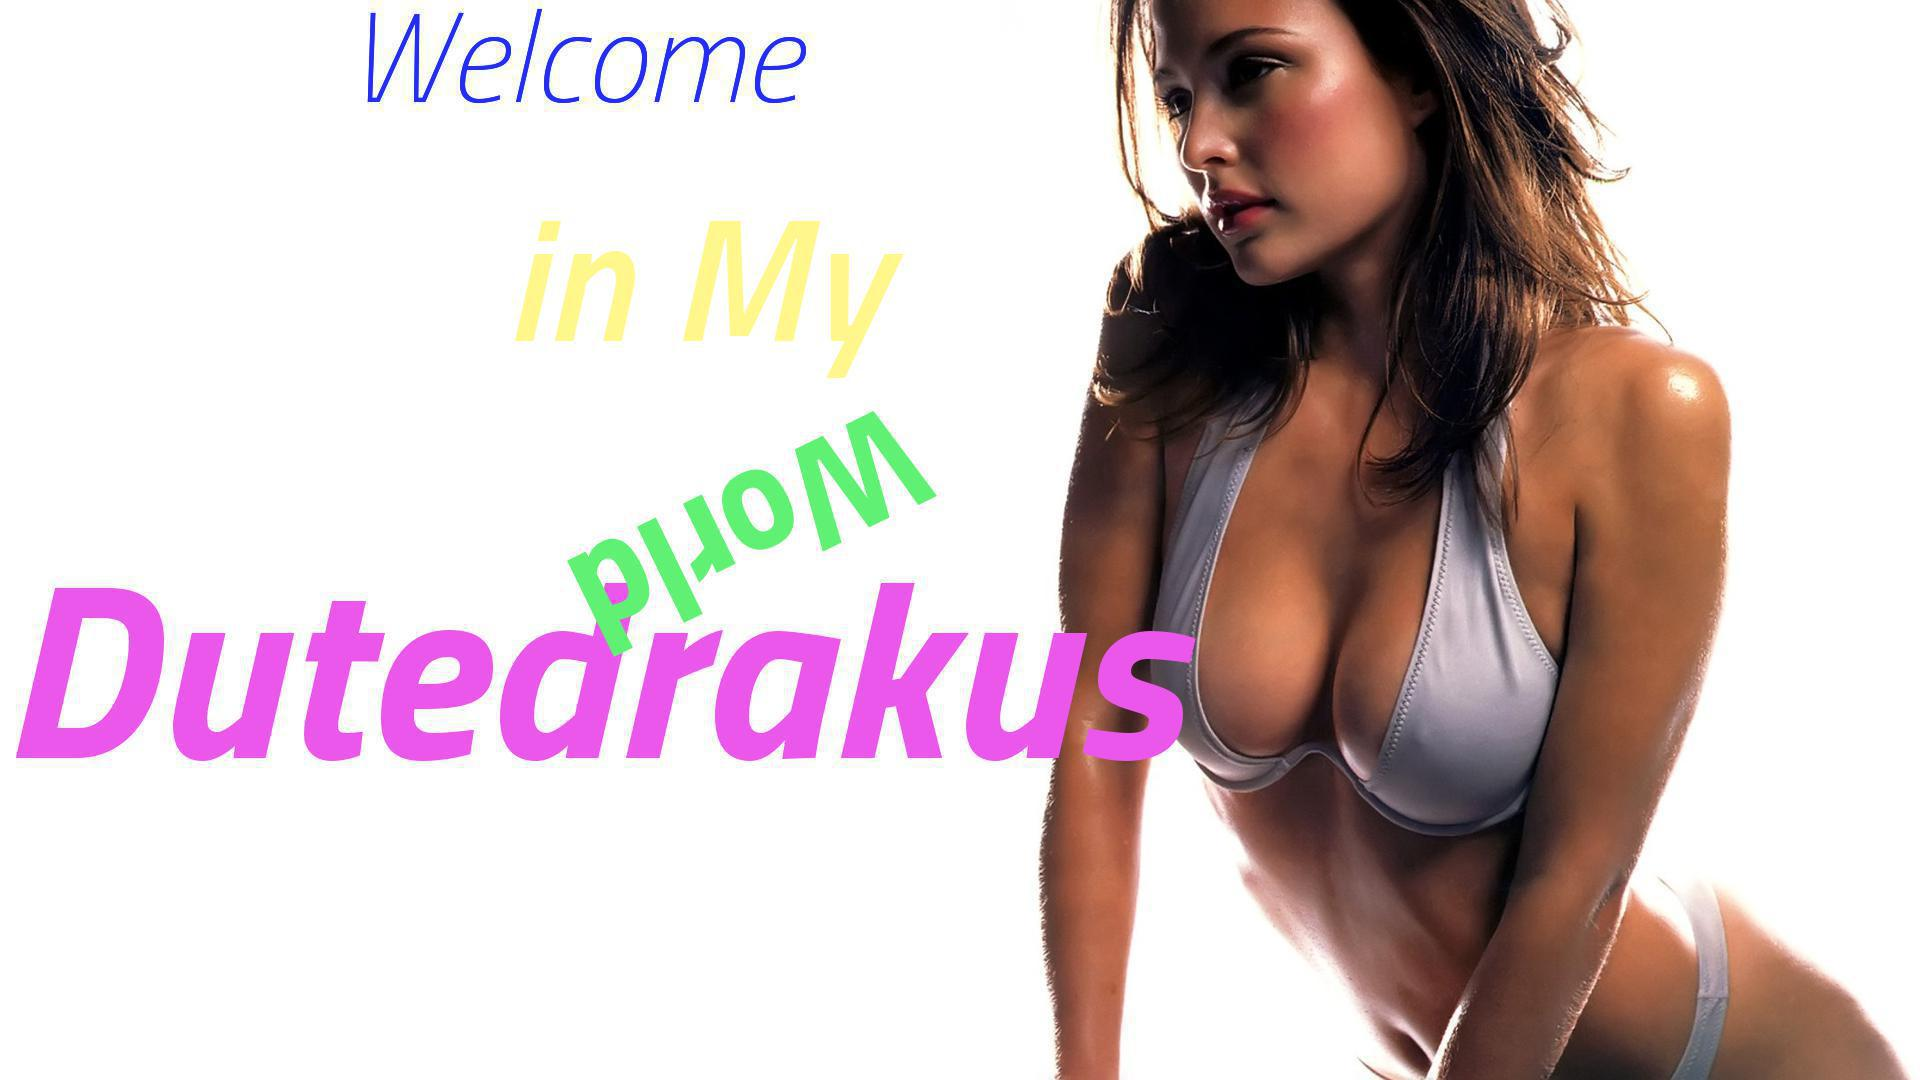
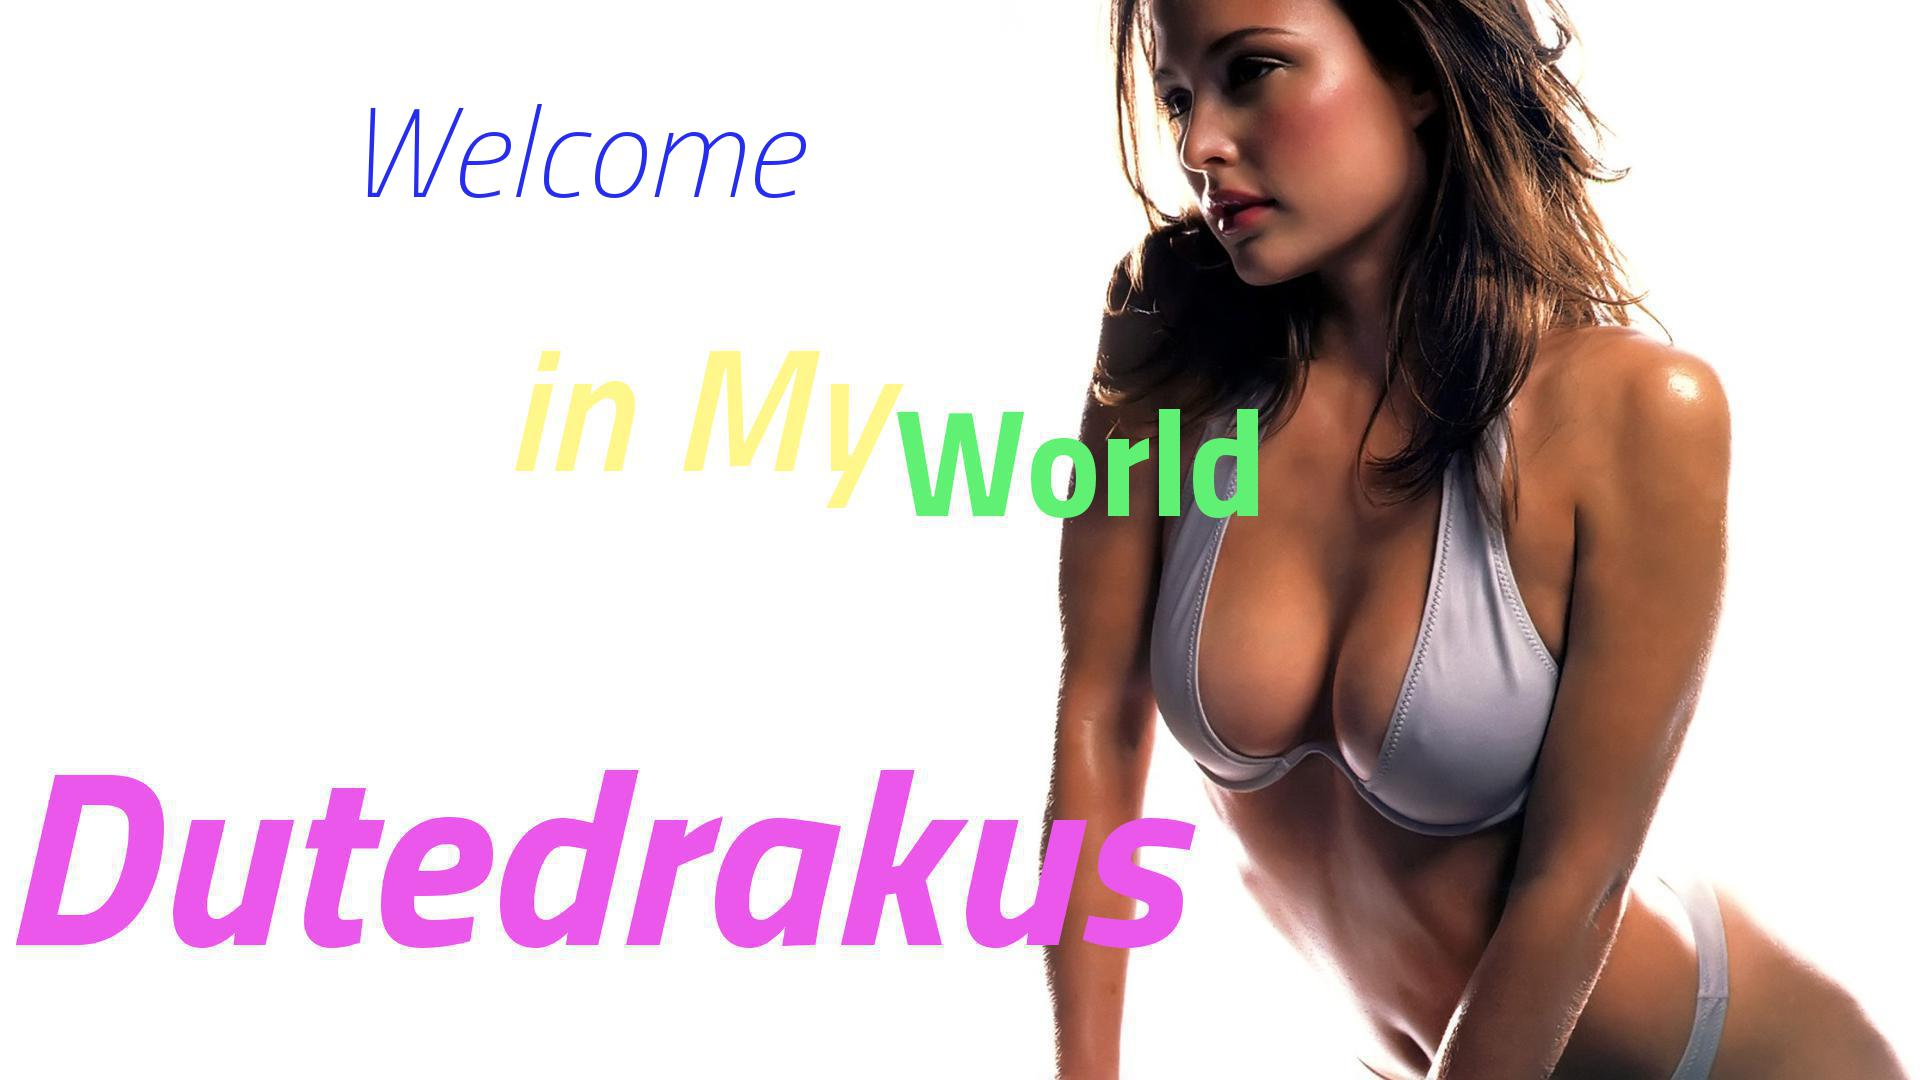
some fix

Changed region(s): [[0.0, 0.0, 0.6562, 0.8861]]

diff --git a/interface/php/show.php b/interface/php/show.php
@@ -15,63 +15,64 @@ $data = $_POST['data'];
 $count = count($data['arry']);
 //---------------------------------//
 $picture = '../data/picture/'.$_COOKIE['PHPSESSID'].'.jpg';
+
 list($width, $height, $type, $attr) = getimagesize($picture); // pobieram wymiary x i y obrazy , typ i atrybuty
-if (file_exists('../data/picture/'.$_COOKIE['PHPSESSID'].'-preview.jpg')) {
-    //echo ':)';
-    $picture = '../data/picture/'.$_COOKIE['PHPSESSID'].'-preview.jpg';
-}
+
 // foreach start
 for ($i = 0; $i < $count; $i++) {
-$color = $data['arry'][$i]['color'];// here color set
-$color = str_replace(array('rgb(', ')', ' '), '', $color);
-$rgb = explode(',', $color);
-//var_dump($rgb);
-$r = $rgb[0];
-$g = $rgb[1];
-$b = $rgb[2];
+    if (file_exists('../data/picture/'.$_COOKIE['PHPSESSID'].'-preview.jpg')) {
+        $picture = '../data/picture/'.$_COOKIE['PHPSESSID'].'-preview.jpg';
+    }
+    $color = $data['arry'][$i]['color'];// here color set
+    $color = str_replace(array('rgb(', ')', ' '), '', $color);
+    $rgb = explode(',', $color);
+    //var_dump($rgb);
+    $r = $rgb[0];
+    $g = $rgb[1];
+    $b = $rgb[2];
 
-$opacity = 1;// here opacity set
-$j = __getProcentFromNumber($opacity, 1);
-//var_dump($j);
-$m = __getNumberFromProcent($j, 127);
-//var_dump($m);
-$alpha = 127-$m;// 0 to 127
-//var_dump($alpha);
+    $opacity = 1;// here opacity set
+    $j = __getProcentFromNumber($opacity, 1);
+    //var_dump($j);
+    $m = __getNumberFromProcent($j, 127);
+    //var_dump($m);
+    $alpha = 127-$m;// 0 to 127
+    //var_dump($alpha);
 
-$ffname = $data['arry'][$i]['family'];// here font family set
-$font = '../data/fonts/'.$ffname.'.otf';
+    $ffname = $data['arry'][$i]['family'];// here font family set
+    $font = '../data/fonts/'.$ffname.'.otf';
 
-$size = $data['arry'][$i]['size'];// here font size set
-$int = intval($size);
-$workH = $data['arry'][$i]['workH'];// here workH set
-//var_dump($int);
-$h = __getProcentFromNumber($int, $workH);
-//var_dump($hjk);
-$rsize = __getNumberFromProcent($h, $height);
-//var_dump($rsize);
-$fsize = $rsize;
+    $size = $data['arry'][$i]['size'];// here font size set
+    $int = intval($size);
+    $workH = $data['arry'][$i]['workH'];// here workH set
+    //var_dump($int);
+    $h = __getProcentFromNumber($int, $workH);
+    //var_dump($hjk);
+    $rsize = __getNumberFromProcent($h, $height);
+    //var_dump($rsize);
+    $fsize = $rsize;
 
-$inscription = $data['arry'][$i]['value'];// here set value
+    $inscription = $data['arry'][$i]['value'];// here set value
 
-$rotate = $data['arry'][$i]['rotate'];// here set rotate
+    $rotate = $data['arry'][$i]['rotate'];// here set rotate
 
-$top = $data['arry'][$i]['top'];// here set top
-$th = __getProcentFromNumber($top, $workH);
-$x = __getNumberFromProcent($th, $height);
-//var_dump($x);
+    $top = $data['arry'][$i]['top']+$size;// here set top
+    $th = __getProcentFromNumber($top, $workH);
+    $x = __getNumberFromProcent($th, $height);
+    //var_dump($x);
 
-$workW = $data['arry'][$i]['workW'];// here workW set
-$left = $data['arry'][$i]['left'];// here set left
-$lw = __getProcentFromNumber($left, $workW);
-$y = __getNumberFromProcent($lw, $width);
-//var_dump($y);
+    $workW = $data['arry'][$i]['workW'];// here workW set
+    $left = $data['arry'][$i]['left'];// here set left
+    $lw = __getProcentFromNumber($left, $workW);
+    $y = __getNumberFromProcent($lw, $width);
+    //var_dump($y);
 
-$handle = imagecreatefromjpeg($picture);
-$fcolor = imagecolorallocatealpha($handle, $r, $g, $b, $alpha);
-imagettftext($handle, $fsize, $rotate, $y, $x, $fcolor, $font, $inscription);
-imagejpeg($handle, '../data/picture/'.$_COOKIE['PHPSESSID'].'-preview.jpg');
-imagedestroy($handle);
-// foreach end
+    $handle = imagecreatefromjpeg($picture);
+    $fcolor = imagecolorallocatealpha($handle, $r, $g, $b, $alpha);
+    imagettftext($handle, $fsize, $rotate, $y, $x, $fcolor, $font, $inscription);
+    imagejpeg($handle, '../data/picture/'.$_COOKIE['PHPSESSID'].'-preview.jpg');
+    imagedestroy($handle);
+    // foreach end
 }
 echo "<img width='340px' src=data/picture/".$_COOKIE['PHPSESSID']."-preview.jpg"."?mtime=".@filemtime($fileimg)." alt='Aby zacząć edycje prześlij obraz'/><br />\n";//dzieki temu wymuszam odswiezanie obrazka
 ?>
